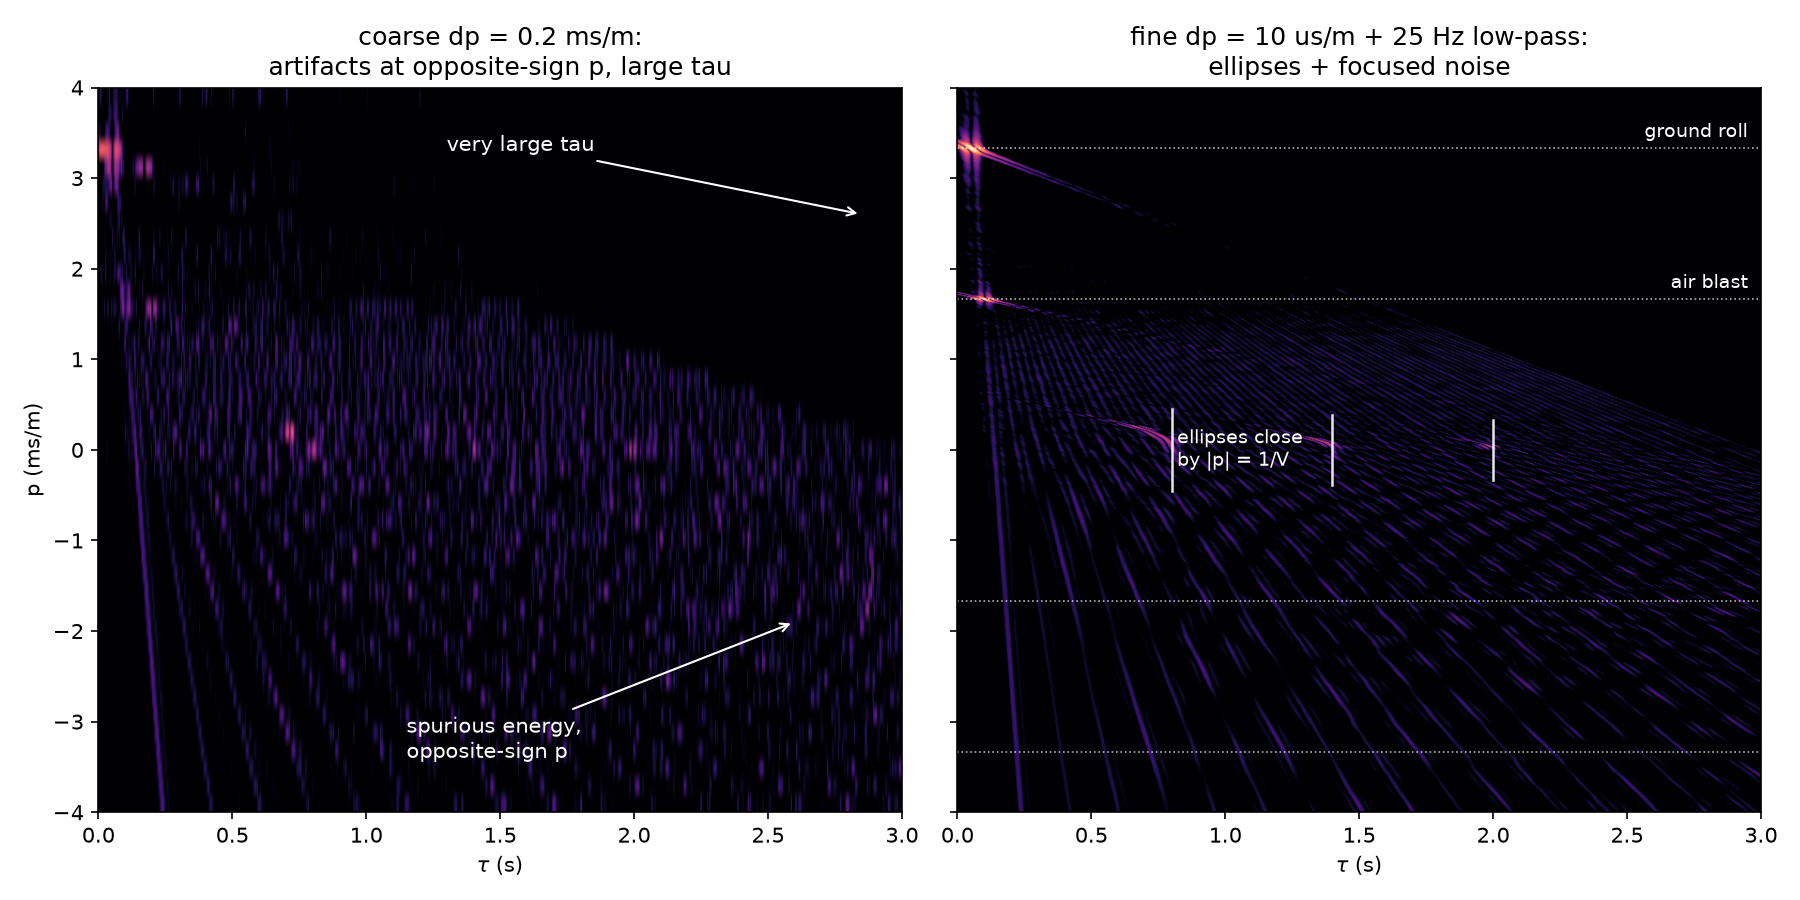
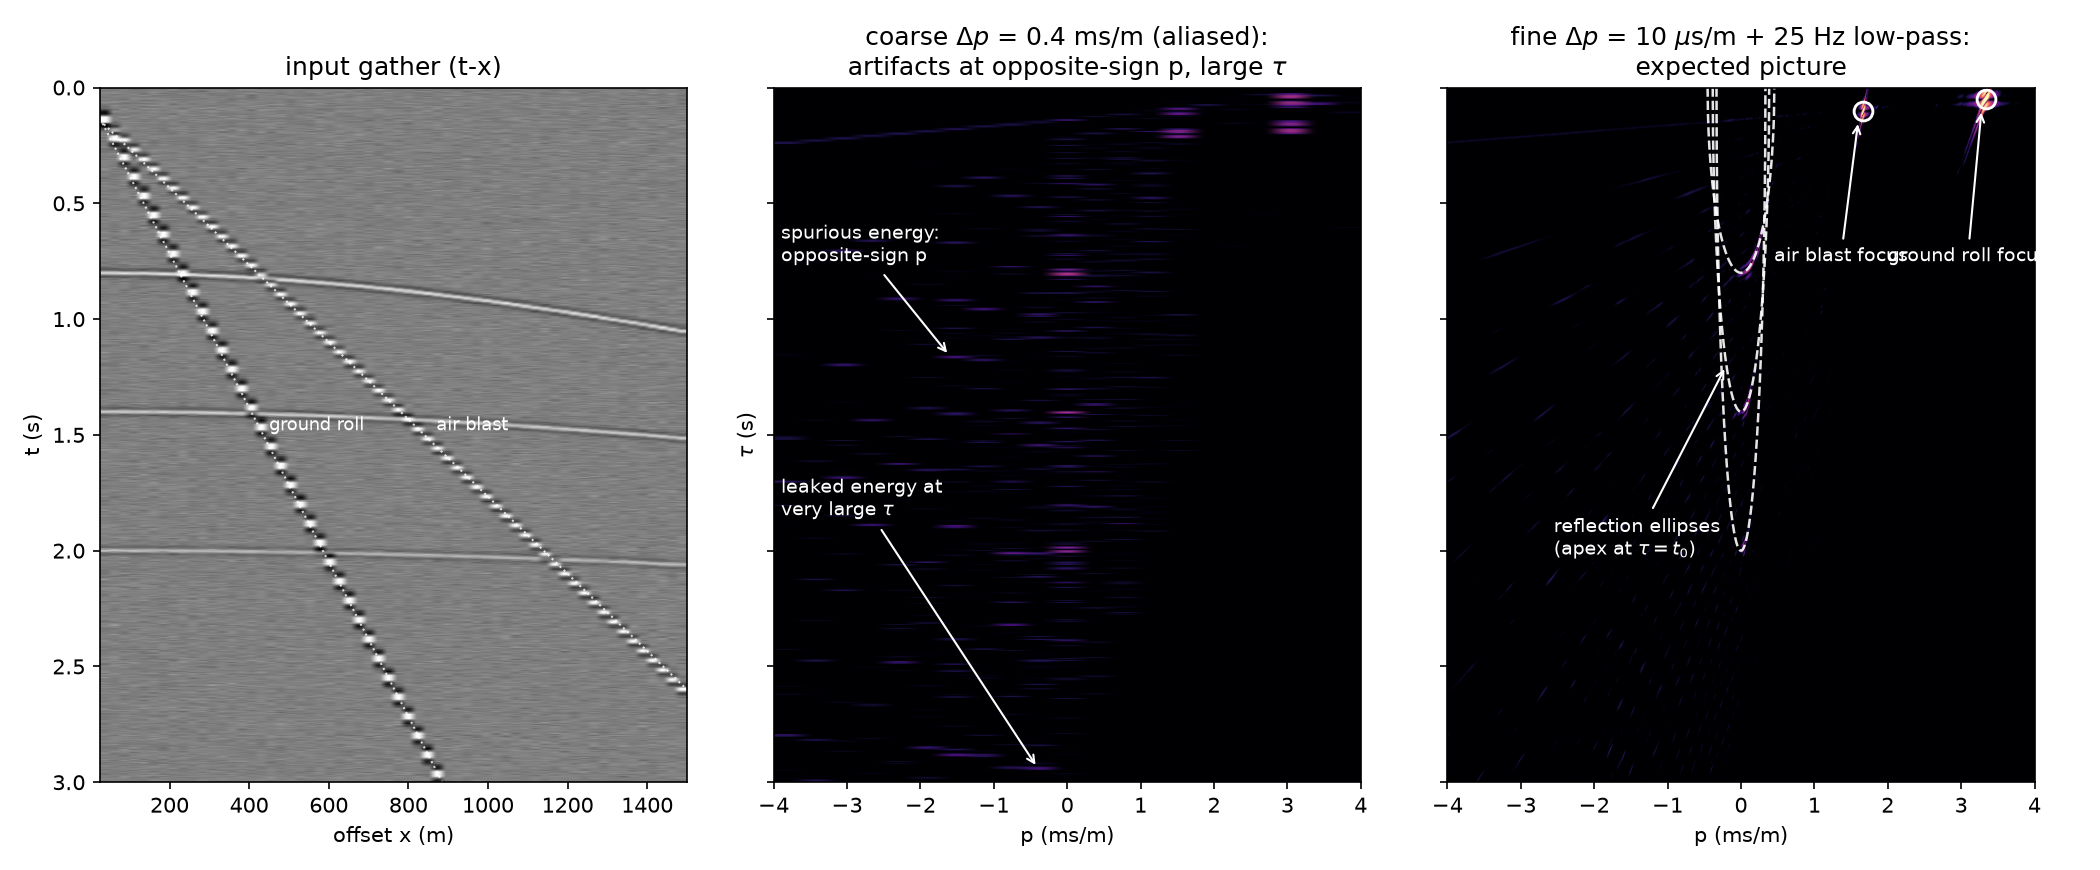
Lec 02_02 figures fixed

diff --git a/scripts/figures/term02_lec02/plot_taup_aliasing.py b/scripts/figures/term02_lec02/plot_taup_aliasing.py
@@ -1,10 +1,15 @@
 """Figure 9: Aliasing artifacts in the tau-p domain.
 
-Left: the running-example gather slant-stacked with too-coarse p sampling
-(dp = 0.2 ms/m, violating dp <= 1/(2 x_max f_max)): artifacts appear as
-energy at opposite-sign p and very large tau. Right: with fine p sampling
-plus a temporal low-pass filter (the cheap fix), the panel shows the
-expected picture: three reflection ellipses and focused linear noise.
+Left: the running-example input gather. Middle: slant-stacked with
+too-coarse p sampling (dp = 0.4 ms/m, violating dp <= 1/(2 x_max f_max)):
+artifacts appear as energy at opposite-sign p and very large tau. Right:
+with fine p sampling plus a temporal low-pass filter (the cheap fix), the
+panel shows the expected picture: three reflection ellipses and focused
+linear noise. Tau-p panels are drawn gather-style (p horizontal, tau down)
+like Figure 8, on one shared dB scale (reference: the clean panel's
+maximum). The display window (-27 to -5 dB) keeps the aliased energy
+(peaking near -22 dB) visible while the interpolation ripple (below
+-26 dB) stays dark; only the two brightest noise foci clip at the top.
 """
 
 import numpy as np
@@ -67,8 +72,8 @@ def slant_stack(data, t, x, p_vals):
 def main():
     data, t, x = make_gather()
 
-    # coarse p sampling (41 values over +/-4 ms/m -> dp = 0.2 ms/m: aliased)
-    p_coarse = np.linspace(-PMAX, PMAX, 41)
+    # coarse p sampling (21 values over +/-4 ms/m -> dp = 0.4 ms/m: aliased)
+    p_coarse = np.linspace(-PMAX, PMAX, 21)
     u_coarse = slant_stack(data, t, x, p_coarse)
 
     # cheap fix: low-pass (anti-alias) filter, then fine p sampling
@@ -77,39 +82,69 @@ def main():
     p_fine = np.linspace(-PMAX, PMAX, 801)      # dp = 10 us/m: adequate
     u_fine = slant_stack(data_lp, t, x, p_fine)
 
-    fig, axes = plt.subplots(1, 2, figsize=(12, 6), sharey=True)
-    for ax, u, pv, title in [
-            (axes[0], u_coarse, p_coarse,
-             'coarse dp = 0.2 ms/m:\nartifacts at opposite-sign p, large tau'),
-            (axes[1], u_fine, p_fine,
-             'fine dp = 10 us/m + 25 Hz low-pass:\nellipses + focused noise')]:
-        a = np.abs(u) / np.abs(u_fine).max()
-        ax.imshow(20 * np.log10(a.T + 1e-3), aspect='auto', cmap='magma',
-                  vmin=-35, vmax=0, origin='lower',
-                  extent=[0, t[-1], pv[0] * 1e3, pv[-1] * 1e3])
-        ax.set(title=title, xlabel=r'$\tau$ (s)')
-    axes[0].set_ylabel('p (ms/m)')
+    fig, axes = plt.subplots(1, 3, figsize=(14, 5.8), sharey=True,
+                             gridspec_kw={'width_ratios': [1, 1, 1]})
 
-    # annotations
-    axes[0].annotate('spurious energy,\nopposite-sign p', xy=(2.6, -1.9),
-                     xytext=(1.15, -3.4), color='w',
+    # --- input gather (t-x), same scaling convention as the other figures
+    clip = np.percentile(np.abs(data), 99.5)
+    axes[0].imshow(data, aspect='auto', cmap='gray', vmin=-clip, vmax=clip,
+                   extent=[x[0], x[-1], t[-1], 0])
+    for onset, v, lbl in [(0.05, GR_V, 'ground roll'),
+                          (0.10, AB_V, 'air blast')]:
+        x_end = min(x[-1], (TMAX - onset) * v)   # clip line to the record
+        axes[0].plot([x[0], x_end], [onset + x[0] / v, onset + x_end / v],
+                     ':', color='w', lw=1.0, alpha=0.8)
+        x_lbl = (1.55 - onset) * v               # label just above the line
+        axes[0].text(x_lbl, 1.48, lbl, color='w', fontsize=8.5)
+    axes[0].set_ylim(t[-1], 0)                   # panels fill the full area
+    axes[0].set(title='input gather (t-x)', xlabel='offset x (m)',
+                ylabel='t (s)')
+
+    # --- tau-p panels, gather-style: p horizontal, tau down (as Fig. 8);
+    # one shared dB scale referenced to the clean panel's maximum: the
+    # window [-27, -5] dB puts the aliased energy (peaks near -22 dB) at
+    # ~20% of the range, keeps the interpolation ripple (< -26 dB) dark,
+    # and clips only the two noise foci at the top of the range
+    ref = np.abs(u_fine).max()
+    for ax, u, pv, title in [
+            (axes[1], u_coarse, p_coarse,
+             'coarse $\\Delta p$ = 0.4 ms/m (aliased):\n'
+             'artifacts at opposite-sign p, large $\\tau$'),
+            (axes[2], u_fine, p_fine,
+             'fine $\\Delta p$ = 10 $\\mu$s/m + 25 Hz low-pass:\n'
+             'expected picture')]:
+        ax.imshow(20 * np.log10(np.abs(u) / ref + 1e-6),
+                  aspect='auto', cmap='magma', vmin=-30, vmax=-5,
+                  extent=[pv[0] * 1e3, pv[-1] * 1e3, t[-1], 0])
+        ax.set(title=title, xlabel='p (ms/m)')
+    axes[1].set_ylabel(r'$\tau$ (s)')
+
+    # annotations on the aliased panel (artifacts: p < 0, tau beyond events)
+    axes[1].annotate('spurious energy:\nopposite-sign p', xy=(-1.6, 1.16),
+                     xytext=(-3.9, 0.75), color='w', fontsize=9,
                      arrowprops=dict(arrowstyle='->', color='w'))
-    axes[0].annotate('very large tau', xy=(2.85, 2.6), xytext=(1.3, 3.3),
-                     color='w', arrowprops=dict(arrowstyle='->', color='w'))
-    # expected locations in the clean panel
-    for p_ms, lbl, c in [(1 / AB_V * 1e3, 'air blast', 'w'),
-                         (-1 / AB_V * 1e3, '', 'w'),
-                         (1 / GR_V * 1e3, 'ground roll', 'w'),
-                         (-1 / GR_V * 1e3, '', 'w')]:
-        axes[1].axhline(p_ms, color=c, ls=':', lw=0.8, alpha=0.7)
-        if lbl:
-            axes[1].text(2.95, p_ms + 0.12, lbl, color='w', fontsize=9,
-                         ha='right')
-    for (t0, v), c in zip(REFLECTIONS, ['w'] * 3):
-        axes[1].plot([t0, t0], [-1 / v * 1e3, 1 / v * 1e3], color=c, lw=1.2,
-                     alpha=0.9)
-    axes[1].text(0.82, 0.0, 'ellipses close\nby |p| = 1/V', color='w',
-                 fontsize=9, ha='left', va='center')
+    axes[1].annotate('leaked energy at\nvery large $\\tau$', xy=(-0.4, 2.94),
+                     xytext=(-3.9, 1.85), color='w', fontsize=9,
+                     arrowprops=dict(arrowstyle='->', color='w'))
+
+    # expected locations in the clean panel: ellipses + noise foci
+    for (t0, v) in REFLECTIONS:
+        p_th = np.linspace(-1 / v, 1 / v, 200)
+        axes[2].plot(p_th * 1e3, t0 * np.sqrt(1 - (p_th * v) ** 2), 'w--',
+                     lw=1.2, alpha=0.9)
+    axes[2].annotate('reflection ellipses\n(apex at $\\tau = t_0$)',
+                     xy=(-0.2, 1.2), xytext=(-2.55, 1.85), color='w',
+                     fontsize=9, va='top',
+                     arrowprops=dict(arrowstyle='->', color='w'))
+    for p_ms, tau0 in [(1 / GR_V * 1e3, 0.05), (1 / AB_V * 1e3, 0.10)]:
+        axes[2].plot(p_ms, tau0, 'o', ms=9, mfc='none', mew=1.4, color='w')
+    axes[2].annotate('ground roll focus', xy=(3.28, 0.09), xytext=(2.0, 0.75),
+                     color='w', fontsize=9,
+                     arrowprops=dict(arrowstyle='->', color='w'))
+    axes[2].annotate('air blast focus', xy=(1.60, 0.14), xytext=(0.45, 0.75),
+                     color='w', fontsize=9,
+                     arrowprops=dict(arrowstyle='->', color='w'))
+
     fig.tight_layout()
     fig.savefig('figures/term02_lec02/term02_lec02_taup_aliasing.png',
                 dpi=150)

diff --git a/scripts/figures/term02_lec02/plot_taup_mute.py b/scripts/figures/term02_lec02/plot_taup_mute.py
@@ -1,10 +1,16 @@
 """Figure 10: Filtering in tau-p -- a p-mute with QC panels.
 
-Left: the tau-p panel of the running-example gather with a tapered mute
-beyond |p| = 0.6 ms/m (past the reflection ellipses, inside the linear
-noise). Middle: the gather after mute + inverse transform (adjoint with the
-rho filter, Section 8). Right: the difference panel -- the noise model that
-was removed: ground roll and air blast, no reflection arcs.
+Modified running example: the air blast is low-frequency (6 Hz dominant,
+bandwidth ending at ~12 Hz = V_ab/(2 dx) -- right at the aliasing
+threshold), hence UNALIASED at dx = 25 m; the ground roll (14 Hz >> 6 Hz
+fold) stays aliased. Left: the input gather. Then its tau-p panel
+(gather-style: p horizontal, tau down) with a tapered mute beyond
+|p| = 0.6 ms/m, the gather after mute + inverse transform (adjoint with
+the rho filter, Section 8), and the difference panel -- the removed noise.
+The unaliased air blast focuses tightly at p = 1/V and vanishes
+completely; the aliased ground roll leaks into the keep zone (its
+wrapped 10-16 Hz components stack at |p| < 0.6) and leaves residuals:
+dip filtering needs unaliased (or low-passed) data.
 """
 
 import numpy as np
@@ -44,7 +50,11 @@ def make_gather(seed=7):
     t = np.arange(nt) * DT
     x = np.arange(1, NX + 1) * DX
     data = np.zeros((nt, NX))
-    wav_r, wav_gr, wav_ab = ricker(25, 61, DT), ricker(14, 121, DT), ricker(20, 91, DT)
+    wav_r = ricker(25, 61, DT)
+    wav_gr = ricker(14, 121, DT)   # 8-20 Hz >> 6 Hz fold: ALIASED at dx=25
+    # air blast at 6 Hz: bandwidth ends at ~12 Hz = V_ab/(2 dx) -- exactly
+    # the aliasing threshold, so this event is UNALIASED at dx = 25 m
+    wav_ab = ricker(6, 301, DT)
     for (t0, v), a in zip(REFLECTIONS, (1.0, 0.8, 0.6)):
         add_event(data, np.sqrt(t0**2 + (x / v) ** 2), wav_r, a)
     add_event(data, 0.05 + x / GR_V, wav_gr, GR_AMP)
@@ -97,29 +107,51 @@ def main():
 
     # inverse (adjoint + rho filter), normalized to input amplitude
     rec = adjoint(rho_filter(u_muted, DT), t, x, p_vals)
-    rec *= np.percentile(np.abs(data), 99.5) / np.percentile(np.abs(rec), 99.5)
+    clip = np.percentile(np.abs(data), 99.5)
+    rec *= clip / np.percentile(np.abs(rec), 99.5)
     diff = data - rec
 
-    fig, axes = plt.subplots(1, 3, figsize=(14, 6),
-                             gridspec_kw={'width_ratios': [1, 1, 1]})
-    a = np.abs(u) / np.abs(u).max()
-    axes[0].imshow(20 * np.log10(a.T + 1e-3), aspect='auto', cmap='magma',
-                   vmin=-35, vmax=0, origin='lower',
-                   extent=[0, t[-1], -PMAX * 1e3, PMAX * 1e3])
-    axes[0].fill_between([0, t[-1]], [0.6, 0.6], [PMAX * 1e3, PMAX * 1e3],
-                         color='crimson', alpha=0.25)
-    axes[0].fill_between([0, t[-1]], [-PMAX * 1e3, -PMAX * 1e3], [-0.6, -0.6],
-                         color='crimson', alpha=0.25)
-    axes[0].set(title='tau-p input + mute zone\n(keep |p| < 0.6 ms/m)',
-                xlabel=r'$\tau$ (s)', ylabel='p (ms/m)')
+    fig, axes = plt.subplots(1, 4, figsize=(16.5, 5.8), sharey=True)
 
-    clip = np.percentile(np.abs(data), 99.5)
-    for ax, d, name in [(axes[1], rec, 'after mute + inverse\n(adjoint + rho)'),
-                        (axes[2], diff, 'difference = noise model')]:
+    # input gather (t-x), same scaling convention as the other figures;
+    # dotted lines mark the two noise events (air blast = the unaliased one)
+    axes[0].imshow(data, aspect='auto', cmap='gray', vmin=-clip, vmax=clip,
+                   extent=[x[0], x[-1], t[-1], 0])
+    for onset, v, lbl, xt, yt in [(0.05, GR_V, 'ground roll', 400, 1.02),
+                                  (0.10, AB_V, 'air blast', 870, 1.05)]:
+        x_end = min(x[-1], (TMAX - onset) * v)   # clip line to the record
+        axes[0].plot([x[0], x_end], [onset + x[0] / v, onset + x_end / v],
+                     ':', color='w', lw=1.0, alpha=0.8)
+        axes[0].text(xt, yt, lbl, color='w', fontsize=8.5)
+    axes[0].set_ylim(t[-1], 0)                   # panels fill the full area
+    axes[0].set(title='input gather (t-x)', xlabel='offset x (m)',
+                ylabel='t (s)')
+
+    # tau-p panel, gather-style: p horizontal, tau down (as Figures 7-9);
+    # own-max dB scale with the -25 dB floor above the interpolation ripple
+    a = np.abs(u) / np.abs(u).max()
+    axes[1].imshow(20 * np.log10(a + 1e-3), aspect='auto', cmap='magma',
+                   vmin=-25, vmax=0,
+                   extent=[-PMAX * 1e3, PMAX * 1e3, t[-1], 0])
+    axes[1].axvspan(-PMAX * 1e3, -0.6, color='crimson', alpha=0.25)
+    axes[1].axvspan(0.6, PMAX * 1e3, color='crimson', alpha=0.25)
+    axes[1].set(title='tau-p + mute zone\n(keep |p| < 0.6 ms/m)',
+                xlabel='p (ms/m)', ylabel=r'$\tau$ (s)')
+
+    for ax, d, name in [(axes[2], rec, 'after mute + inverse\n(adjoint + rho)'),
+                        (axes[3], diff, 'difference = noise model')]:
         ax.imshow(d, aspect='auto', cmap='gray', vmin=-clip, vmax=clip,
                   extent=[x[0], x[-1], t[-1], 0])
         ax.set(title=name, xlabel='offset x (m)')
-    axes[1].set_ylabel('t (s)')
+    axes[2].set_ylabel('t (s)')
+
+    # the teaching point: unaliased noise vanishes, aliased noise lingers
+    axes[2].annotate('residual ground roll:\nwrapped frequencies stack\n'
+                     'inside |p| < 0.6', xy=(675, 2.30), xytext=(880, 1.62),
+                     color='w', fontsize=9,
+                     arrowprops=dict(arrowstyle='->', color='w'))
+    axes[3].text(700, 2.18, 'ground roll (partly)', color='w', fontsize=8.5)
+    axes[3].text(950, 1.55, 'air blast (fully)', color='w', fontsize=8.5)
     fig.tight_layout()
     fig.savefig('figures/term02_lec02/term02_lec02_taup_mute.png', dpi=150)
     print('wrote term02_lec02_taup_mute.png')

diff --git a/scripts/figures/term02_lec02/plot_taup_mapping.py b/scripts/figures/term02_lec02/plot_taup_mapping.py
@@ -1,9 +1,10 @@
 """Figure 7: Slant stacking -- how events map into tau-p.
 
-Left: three linear events in t-x with a summation trajectory (trial slope).
-Middle: after LMO with the slope that matches the middle event, that event is
-flat -- the sum over offsets then spikes. Right: the tau-p panel: each linear
-event focuses to one point at (tau0, p0).
+Left: three linear events in t-x, with the summation trajectory (white)
+highlighted on one event only. Middle: after LMO with the slope that
+matches that event, it is flat -- the sum over offsets then spikes. Right:
+the tau-p panel, gather-style (p horizontal, tau down): each linear event
+focuses to one point at (p0, tau0).
 """
 
 import numpy as np
@@ -55,7 +56,8 @@ def slant_stack(data, t, x, p_vals):
 
 def main():
     data, t, x = make_gather()
-    p_match = 0.55e-3                       # slope of the middle event [s/m]
+    tau_m, p_m = EVENTS[1]                  # the event that gets flattened
+    p_match = p_m * 1e-3                    # its slope [s/m]
 
     # LMO-corrected gather with the matching slope
     lmo = np.zeros_like(data)
@@ -63,38 +65,41 @@ def main():
         lmo[:, j] = np.interp(t + p_match * x[j], t, data[:, j],
                               left=0.0, right=0.0)
 
-    p_vals = np.linspace(-1.2e-3, 1.2e-3, 401)      # fine enough (no p-alias)
+    # 481 samples: grid step 0.005 ms/m hits all three event slopes exactly
+    p_vals = np.linspace(-1.2e-3, 1.2e-3, 481)      # fine enough (no p-alias)
     u = slant_stack(data, t, x, p_vals)
 
-    fig, axes = plt.subplots(1, 3, figsize=(13, 4.6))
+    fig, axes = plt.subplots(1, 3, figsize=(13, 4.6), sharey=True)
     clip = np.percentile(np.abs(data), 99.5)
+
+    # t-x: only the flattened event carries the summation line
     axes[0].imshow(data, aspect='auto', cmap='gray', vmin=-clip, vmax=clip,
-                   extent=[0, x[-1], t[-1], 0])
-    xx = np.array([0, x[-1]])
-    for tau0, p_ms in EVENTS:
-        axes[0].plot(xx, tau0 + p_ms * 1e-3 * xx, color='crimson', lw=1.0,
-                     alpha=0.7)
-    axes[0].plot(xx, 0.42 + p_match * xx, 'w-', lw=2.2, alpha=0.9)
-    axes[0].set(title='t-x: events + summation line\n(white: trial p = 0.55 ms/m)',
-                xlabel='x (m)', ylabel='t (s)')
+                   extent=[x[0], x[-1], t[-1], 0])
+    xx = np.array([x[0], x[-1]])           # trimmed to the actual offsets
+    axes[0].plot(xx, tau_m + p_match * xx, 'w-', lw=2.2, alpha=0.9)
+    axes[0].set_ylim(t[-1], 0)             # no white space above t = 0
+    axes[0].set(title=f't-x: summation line (white)\non the event with '
+                f'p = {p_m:.2f} ms/m', xlabel='x (m)', ylabel='t (s)')
 
     axes[1].imshow(lmo, aspect='auto', cmap='gray', vmin=-clip, vmax=clip,
-                   extent=[0, x[-1], t[-1], 0])
-    axes[1].axhline(0.42, color='w', ls='--', lw=1.2)
+                   extent=[x[0], x[-1], t[-1], 0])
+    axes[1].axhline(tau_m, color='w', ls='--', lw=1.2)
     axes[1].set(title='after LMO with matching p:\nevent flat, sums in phase',
                 xlabel='x (m)', ylabel=r'$\tau$ (s)')
 
+    # tau-p, gather-style: p horizontal, tau down (as Figures 8-9);
+    # markers at (p0, tau0) sit exactly on the focused points
     uplot = np.abs(u) / np.abs(u).max()
-    axes[2].imshow(20 * np.log10(uplot.T + 1e-3), aspect='auto', cmap='magma',
-                   vmin=-40, vmax=0, extent=[t[-1], 0, p_vals[0] * 1e3,
-                                             p_vals[-1] * 1e3])
+    axes[2].imshow(20 * np.log10(uplot + 1e-3), aspect='auto', cmap='magma',
+                   vmin=-40, vmax=0, extent=[p_vals[0] * 1e3,
+                                             p_vals[-1] * 1e3, t[-1], 0])
     for tau0, p_ms in EVENTS:
-        axes[2].plot(tau0, p_ms, 'wo', ms=7, mfc='none', mew=2)
-        axes[2].annotate(f'({tau0:.2f} s, {p_ms:+.2f})',
-                         (tau0, p_ms), textcoords='offset points',
-                         xytext=(12, 8), color='w', fontsize=9)
+        axes[2].plot(p_ms, tau0, 'wo', ms=7, mfc='none', mew=2)
+        axes[2].annotate(f'({tau0:.2f} s, {p_ms:+.2f})', (p_ms, tau0),
+                         textcoords='offset points', xytext=(12, 8),
+                         color='w', fontsize=9)
     axes[2].set(title='tau-p: linear events -> points',
-                xlabel=r'$\tau$ (s)', ylabel='p (ms/m)')
+                xlabel='p (ms/m)', ylabel=r'$\tau$ (s)')
     fig.tight_layout()
     fig.savefig('figures/term02_lec02/term02_lec02_taup_mapping.png',
                 dpi=150)

diff --git a/lecture_notes/en/term02_lec02_linear_noise_attenuation.en.md b/lecture_notes/en/term02_lec02_linear_noise_attenuation.en.md
@@ -318,7 +318,7 @@ For example: $x_\text{max} = 1475$ m, $f_\text{max} = 100$ Hz gives $\Delta p \l
 
 ![Figure: `figures/term02_lec02/term02_lec02_taup_aliasing.png` — aliasing artifacts in tau-p.](./figures/term02_lec02/term02_lec02_taup_aliasing.png)
 
-*Figure 9: The running gather transformed with too-coarse p-sampling (left): artifacts appear at opposite-sign p and very large $\tau$. With adequate $\Delta p$ and a low-pass filter (right), the panel shows what it should: three reflection ellipses and focused linear noise points.*
+*Figure 9: The input gather (left). Transformed with too-coarse p-sampling ($\Delta p$ = 0.4 ms/m, middle): artifacts appear as coherent energy at opposite-sign p and very large $\tau$, and the whole panel is weaker — leaked away by the undersampled transform. With adequate $\Delta p$ and a low-pass filter (right), the panel shows what it should: three reflection ellipses (dashed) and the focused linear-noise points at $p = 1/V$. Both tau-p panels share one dB scale (reference: the clean panel's maximum; only the two noise foci clip at the top).*
 
 ### 6.2 Filtering in tau-p
 
@@ -328,13 +328,13 @@ With a clean panel, filtering is the same recipe as ever — design a mute, appl
 - **$\tau$-p windows:** combine the p-mute with a time floor (e.g. spare the shallow part of the panel), or mute only a dip band containing a specific noise train;
 - **taper every edge** — the same Gibbs logic as FK, and production practice is explicit about it: the case study in the references used 200 ms tapers and *no sharp corners* on its tau-p mutes, because hard edges ring when transformed back to t-x.
 
-QC is identical to Section 4.3 — before / after / **difference** panels; the difference must be the linear noise (Figure 10). And the same strategic choice exists: mute the noise and inverse-transform the *signal* (zero-out), or mute the signal and inverse-transform the *noise* as a model to subtract — the amplitude-preserving route described in Section 4.3.
+QC is identical to Section 4.3 — before / after / **difference** panels; the difference must be the linear noise (Figure 10). Figure 10 stages both outcomes deliberately: the air blast is low-frequency enough to be unaliased at this $\Delta x$ (its bandwidth ends exactly at $V_\text{ab}/(2\,\Delta x)$, the aliasing threshold), so it focuses entirely at $p = 1/V_\text{ab}$ and the mute removes it completely; the ground roll is aliased, and its wrapped 10–16 Hz components stack inside the keep zone — $p = 1/V_\text{gr} - 1/(f\,\Delta x)$ lands at $|p| < 0.6$ ms/m — leaving residuals in the result. Dip filtering needs unaliased (or low-pass-filtered) input: the same lesson as Section 6.1. And the same strategic choice exists: mute the noise and inverse-transform the *signal* (zero-out), or mute the signal and inverse-transform the *noise* as a model to subtract — the amplitude-preserving route described in Section 4.3.
 
 When to choose tau-p over FK? They are one transform in two coordinate systems (next section), so the separation power is the same in principle. In practice: FK masks are natural when the noise's full $(f, k)$ shape matters (frequency-selective wedges, wrapped-energy surgery); tau-p mutes are natural when the decision is a pure dip decision, independent of frequency — and they generalize (parabolic, hyperbolic variants) where FK does not. 
 
 ![Figure: `figures/term02_lec02/term02_lec02_taup_mute.png` — tau-p mute application.](./figures/term02_lec02/term02_lec02_taup_mute.png)
 
-*Figure 10: Tau-p mute on the running gather. Left: input panel with the mute zone beyond the ellipses. Middle: after mute and inverse transform, in t-x. Right: the difference (= the noise model): ground roll and air blast, no reflection arcs.*
+*Figure 10: Tau-p mute on the running gather, with the air blast made unaliased (6 Hz dominant: its bandwidth ends at $V_\text{ab}/(2\Delta x)$, the aliasing threshold; the ground roll stays aliased). The input gather (left); its tau-p panel with the mute zone beyond the ellipses (second); after mute and inverse transform, in t-x (third); the difference = the removed noise (right). The unaliased air blast vanishes completely — all of its energy lands at $p = 1/V$, inside the mute. The aliased ground roll leaves residuals: its wrapped 10–16 Hz components stack inside the keep zone $|p| < 0.6$ ms/m.*
 
 ---
 
